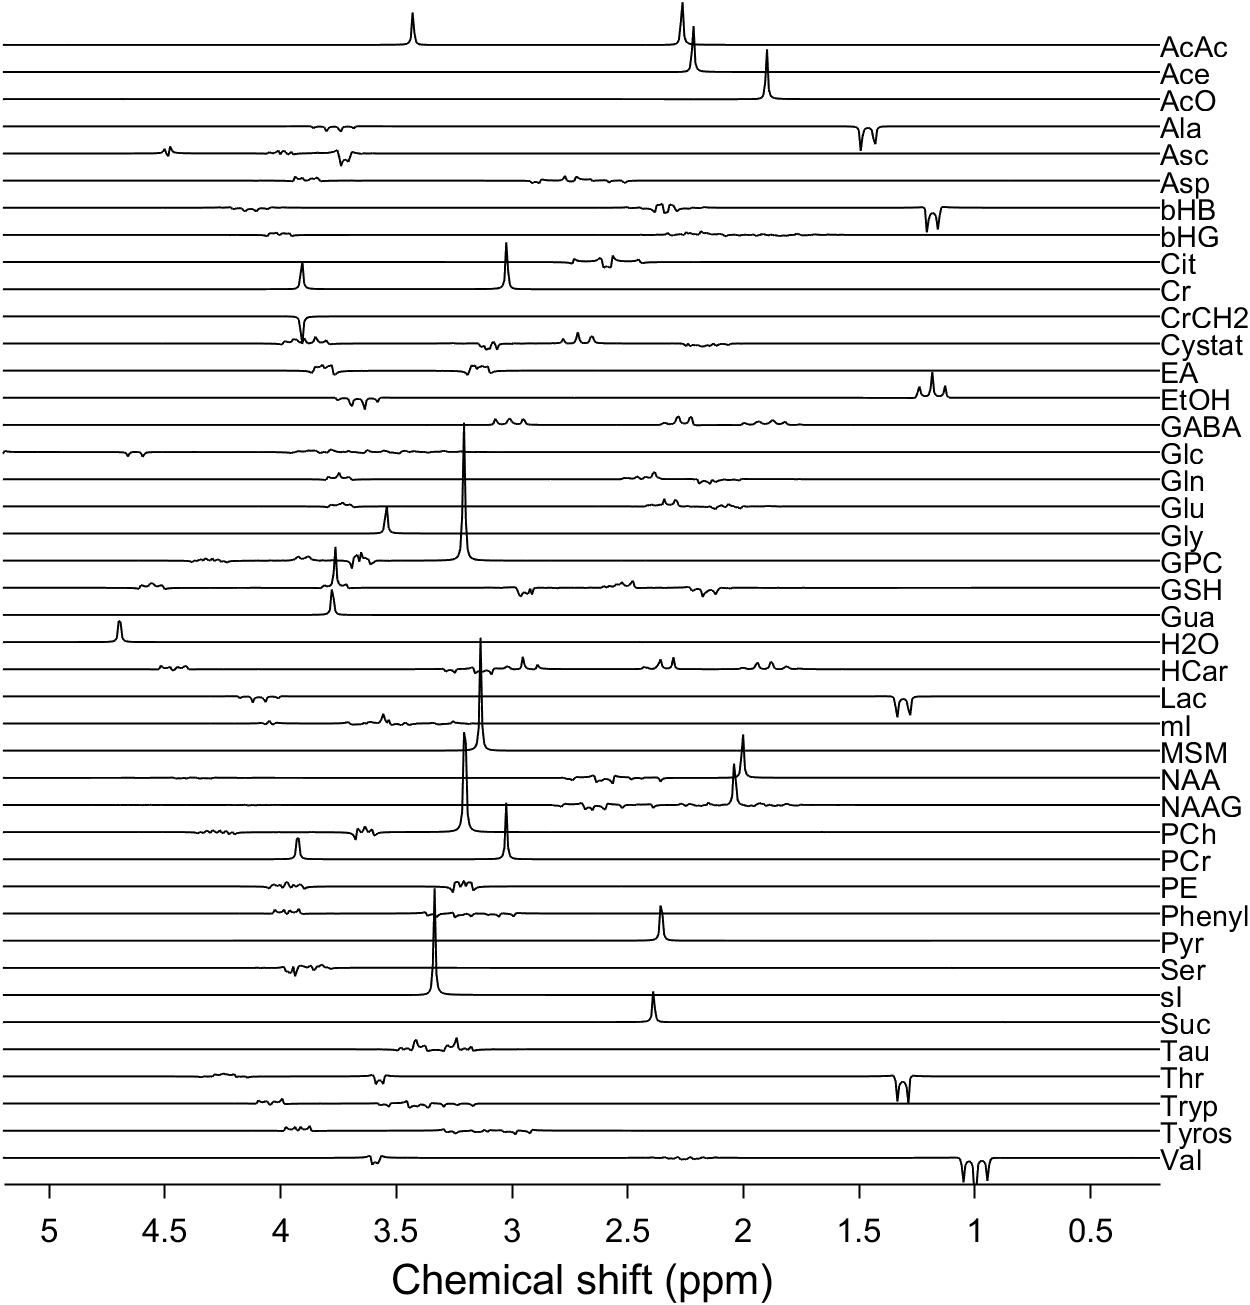
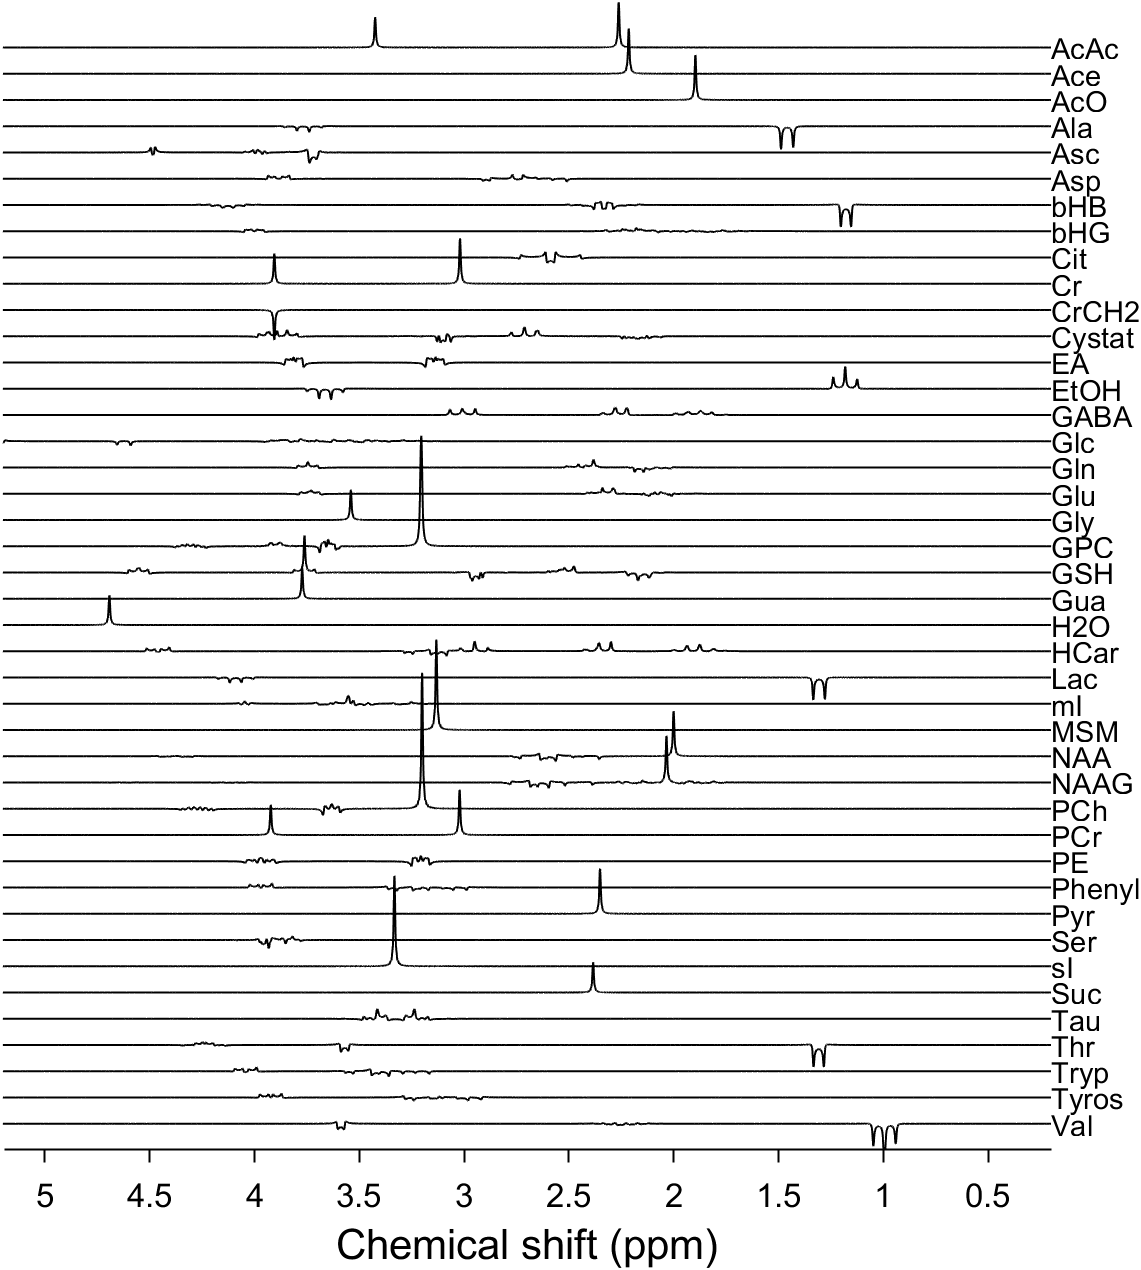
Add zero-filling option
Update plotLCMBasis to allow zero-filling for smoother plotting
Update README accordingly
Nicer screenshot.

Changed region(s): [[0.0, 0.0, 1.0, 1.0], [0.5828, 0.4913, 0.6442, 0.522], [0.5215, 0.4913, 0.5521, 0.522]]

diff --git a/plotLCMBasis.m b/plotLCMBasis.m
@@ -3,38 +3,42 @@
 %
 % USAGE:
 % out = plotLCMBasis(basisSetFile, stagFlag, ppmmin, ppmmax, xlab, ylab, figTitle)
-% 
+%
 % DESCRIPTION:
 % Creates a figure showing all a basis functions in LCModel basis set.
-% 
+%
 % INPUTS:
 % basisSetFile  = basis set in .basis format (required)
 % stagFlag  = flag to decide whether basis functions should be plotted
 %               vertically staggered or simply over one another (optional.
 %               Default: 1 = staggered; 0 = not staggered)
+% zf        = Zero-filling factor for smoother plotting (optional. Default 1)
 % ppmmin    = lower limit of ppm scale to plot (optional.  Default = 0.2 ppm).
 % ppmmax    = upper limit of ppm scale to plot (optional.  Default = 5.2 ppm).
 % xlab      = Label for the x-axis (optional.  Default = 'Chemical shift (ppm)');
 % ylab      = label for the y-axis (optional.  Default = '');
 % figTitle  = label for the title of the plot (optional.  Default = '');
 
-function out = plotLCMBasis(basisSetFile, stagFlag, ppmmin, ppmmax, xlab, ylab, figTitle)
+function out = plotLCMBasis(basisSetFile, stagFlag, zf, ppmmin, ppmmax, xlab, ylab, figTitle)
 
 % Parse input arguments
-if nargin<7
+if nargin<8
     figTitle = '';
-    if nargin<6
-        ylab='';
-        if nargin<5
-            xlab='Chemical shift (ppm)';
-            if nargin<4
-                ppmmax=5.2;
-                if nargin<3
-                    ppmmin=0.2;
-                    if nargin<2
-                        stagFlag = 1;
-                        if nargin<1
-                            error('ERROR: no input basis set specified.  Aborting!!');
+    if nargin<7
+        ylab = '';
+        if nargin<6
+            xlab = 'Chemical shift (ppm)';
+            if nargin<5
+                ppmmax = 5.2;
+                if nargin<4
+                    ppmmin = 0.2;
+                    if nargin<3
+                        zf = 1;
+                        if nargin<2
+                            stagFlag = 1;
+                            if nargin<1
+                                error('ERROR: no input basis set specified.  Aborting!!');
+                            end
                         end
                     end
                 end
@@ -63,10 +67,19 @@ fidsArray       = zeros(nPts, nBasisFct);
 for kk = 1:nBasisFct
     fidsArray(:,kk) = basisSet.(metNamesArray{kk}).fids;
 end
-specsArray      = fftshift(fft(fidsArray,[],1),1);
-dwellTime       = basisSet.(metNamesArray{1}).dwelltime;
 txfrq           = basisSet.(metNamesArray{1}).txfrq;
+dwellTime       = basisSet.(metNamesArray{1}).dwelltime;
 spectralWidth   = 1/dwellTime;
+
+% Optional zero-fill
+% Calculate how many zeros to add
+zp              = ceil((nPts*zf) - nPts);
+% Add zeros using MATLAB array zeropadding function;
+fidsArray       = padarray(fidsArray, zp, 'post');
+nPts            = size(fidsArray, 1);
+
+% Calculate spectra & ppm axis
+specsArray      = fftshift(fft(fidsArray,[],1),1);
 f               = [(-spectralWidth/2)+(spectralWidth/(2*nPts)):spectralWidth/(nPts):(spectralWidth/2)-(spectralWidth/(2*nPts))];
 ppm             = f/(txfrq*1e-6) + 4.68;
 
@@ -76,7 +89,7 @@ if stagFlag==1
     % Staggered plots will be separated by the mean of the
     % maximum across all spectra
     stag = mean(max(real(specsArray)));
-    
+
     % Loop over all basis functions
     hold on
     for kk = 1:nBasisFct
@@ -86,7 +99,7 @@ if stagFlag==1
         text(ppmmin, - kk*stag, metNamesArray{kk}, 'FontSize', 14);
     end
     hold off
-    
+
     set(gca, 'XDir', 'reverse', 'XLim', [ppmmin, ppmmax], 'YLim', [-stag*(nBasisFct+1), max(real(specsArray(:,1)))]);
 
 else
@@ -150,7 +163,7 @@ end
 %
 % OUTPUTS:
 % out        = Input basis set saved as a structure in which each field is
-%               an individual metabolite basis spectrum in FID-A structure 
+%               an individual metabolite basis spectrum in FID-A structure
 %               format.
 
 function [out]=io_readlcmraw_basis(filename,conjugate)
@@ -204,8 +217,8 @@ spectralwidth=1/dwelltime;
 fileEnd=false;
 
 while ~feof(fid)
-     %look for a center frequency
-    ppmsep_index=contains(line,'PPMSEP');    
+    %look for a center frequency
+    ppmsep_index=contains(line,'PPMSEP');
     while ~ppmsep_index;
         line=fgets(fid);
         if ischar(line)
@@ -217,7 +230,7 @@ while ~feof(fid)
             if contains(line,'METABO') && ~contains(line, 'METABO_')
                 break
             end
-        end       
+        end
     end
     if ppmsep_index
         line = GetNumFromString(line);
@@ -225,7 +238,7 @@ while ~feof(fid)
     else
         centerFreq = [];
     end
-    
+
     %Look for the metabolite name
     metab_index=contains(line,'METABO') && ~contains(line, 'METABO_'); % ARC 2023-06-14
     while ~metab_index;
@@ -246,7 +259,7 @@ while ~feof(fid)
     end
 
     metabName=pat{1}{1};
-    
+
     hdrEnd_index=contains(line,'$END');
     while ~hdrEnd_index;
         line=fgets(fid);
@@ -257,9 +270,9 @@ while ~feof(fid)
             end
         end
     end
-    
+
     line=fgets(fid);
-    
+
     nmused_index=contains(line,'$NMUSED');
     basis_index=contains(line,'$BASIS');
     linenum=1;
@@ -339,7 +352,7 @@ while ~feof(fid)
     eval(['out.' metabName '.t=t;']);
     eval(['out.' metabName '.txfrq=txfrq;']);
     if ~isempty(centerFreq)
-            eval(['out.' metabName '.centerFreq=centerFreq;']);
+        eval(['out.' metabName '.centerFreq=centerFreq;']);
     end
     eval(['out.' metabName '.date=date;']);
     eval(['out.' metabName '.seq='''';']);
@@ -363,7 +376,7 @@ while ~feof(fid)
     eval(['out.' metabName '.flags.writtentotext=1;']);
     eval(['out.' metabName '.flags.downsampled=0;']);
     eval(['out.' metabName '.flags.isFourSteps=0;']);
-    
+
 end
 
 fclose(fid);
@@ -381,9 +394,9 @@ str3 = regexprep(str2, {'\.\s','\E\s','\e\s','\s\E','\s\e'},' ');
 end
 
 function str = RemoveWhiteSpaces(str)
-    pattern = '[ \t\n]'; % Match zero or more spaces, tabs, or newlines, followed by a double quote
-    replacement = ''; % Replace the matched string with just a double quote
-    str = regexprep(str, pattern, replacement);
+pattern = '[ \t\n]'; % Match zero or more spaces, tabs, or newlines, followed by a double quote
+replacement = ''; % Replace the matched string with just a double quote
+str = regexprep(str, pattern, replacement);
 end
 
 
@@ -405,34 +418,34 @@ b15 = 32768.d0;
 b16 = 65536.0d0;
 p   = 2147483647.0d0;
 
- %                                                                           4231
- %  PORTABLE RANDOM NUMBER GENERATOR                                         4232
- %   USING THE RECURSION                                                     4233
- %    DIX = DIX*A MOD P                                                      4234
- %                                                                           4235
- %                                                                           4237
- %  7**5, 2**15, 2**16, 2**31-1                                              4238
-                                                             
- %  GET 15 HI ORDER BITS OF DIX                                              4241
- xhi = dix./b16;
- xhi = xhi - rem(xhi,1.0d0);
- %  GET 16 LO BITS IF DIX AND FORM LO PRODUCT                                4244
- xalo =(dix-xhi.*b16).*a;
- %  GET 15 HI ORDER BITS OF LO PRODUCT                                       4246
- leftlo = xalo./b16;
- leftlo = leftlo - rem(leftlo,1.0d0);
- %  FORM THE 31 HIGHEST BITS OF FULL PRODUCT                                 4249
- fhi = xhi.*a + leftlo;
- %  GET OVERFLO PAST 31ST BIT OF FULL PRODUCT                                4251
- k = fix(fhi./b15);
- k = fix(k - rem(k,1.0d0));
- %  ASSEMBLE ALL THE PARTS AND PRESUBTRACT P                                 4254
- %   THE PARENTHESES ARE ESSENTIAL                                           4255
- dix =(((xalo-leftlo.*b16)-p)+(fhi-k.*b15).*b16) + k;
- %  ADD P BACK IN IF NECESSARY                                               4257
- if(dix < 0.0d0)
+%                                                                           4231
+%  PORTABLE RANDOM NUMBER GENERATOR                                         4232
+%   USING THE RECURSION                                                     4233
+%    DIX = DIX*A MOD P                                                      4234
+%                                                                           4235
+%                                                                           4237
+%  7**5, 2**15, 2**16, 2**31-1                                              4238
+
+%  GET 15 HI ORDER BITS OF DIX                                              4241
+xhi = dix./b16;
+xhi = xhi - rem(xhi,1.0d0);
+%  GET 16 LO BITS IF DIX AND FORM LO PRODUCT                                4244
+xalo =(dix-xhi.*b16).*a;
+%  GET 15 HI ORDER BITS OF LO PRODUCT                                       4246
+leftlo = xalo./b16;
+leftlo = leftlo - rem(leftlo,1.0d0);
+%  FORM THE 31 HIGHEST BITS OF FULL PRODUCT                                 4249
+fhi = xhi.*a + leftlo;
+%  GET OVERFLO PAST 31ST BIT OF FULL PRODUCT                                4251
+k = fix(fhi./b15);
+k = fix(k - rem(k,1.0d0));
+%  ASSEMBLE ALL THE PARTS AND PRESUBTRACT P                                 4254
+%   THE PARENTHESES ARE ESSENTIAL                                           4255
+dix =(((xalo-leftlo.*b16)-p)+(fhi-k.*b15).*b16) + k;
+%  ADD P BACK IN IF NECESSARY                                               4257
+if(dix < 0.0d0)
     dix = dix + p;
- end
- %  MULTIPLY BY 1/(2**31-1)                                                  4259
- randomresult = dix.*4.656612875d-10;
+end
+%  MULTIPLY BY 1/(2**31-1)                                                  4259
+randomresult = dix.*4.656612875d-10;
 end %function random

diff --git a/README.md b/README.md
@@ -16,7 +16,7 @@ Text overlap is not controlled for, so you'll probably need to resize the figure
 ## Usage
 
 ```
-out = plotLCMBasis(basisSetFile, stagFlag, ppmmin, ppmmax, xlab, ylab, figTitle)
+out = plotLCMBasis(basisSetFile, stagFlag, zf, ppmmin, ppmmax, xlab, ylab, figTitle)
 ```
 
 ### Inputs
@@ -26,6 +26,7 @@ basisSetFile    = LCModel basis set in .basis format (required)
 stagFlag        = flag to decide whether basis functions should be plotted
                     vertically staggered or simply over one another (optional.
                     Default: 1 = staggered; 0 = not staggered)
+zf              = Zero-filling factor for smoother plotting (optional. Default 1, i.e., no zero-fill)
 ppmmin          = lower limit of ppm scale to plot (optional.  Default = 0.2 ppm).
 ppmmax          = upper limit of ppm scale to plot (optional.  Default = 5.2 ppm).
 xlab            = Label for the x-axis (optional.  Default = 'Chemical shift (ppm)');
